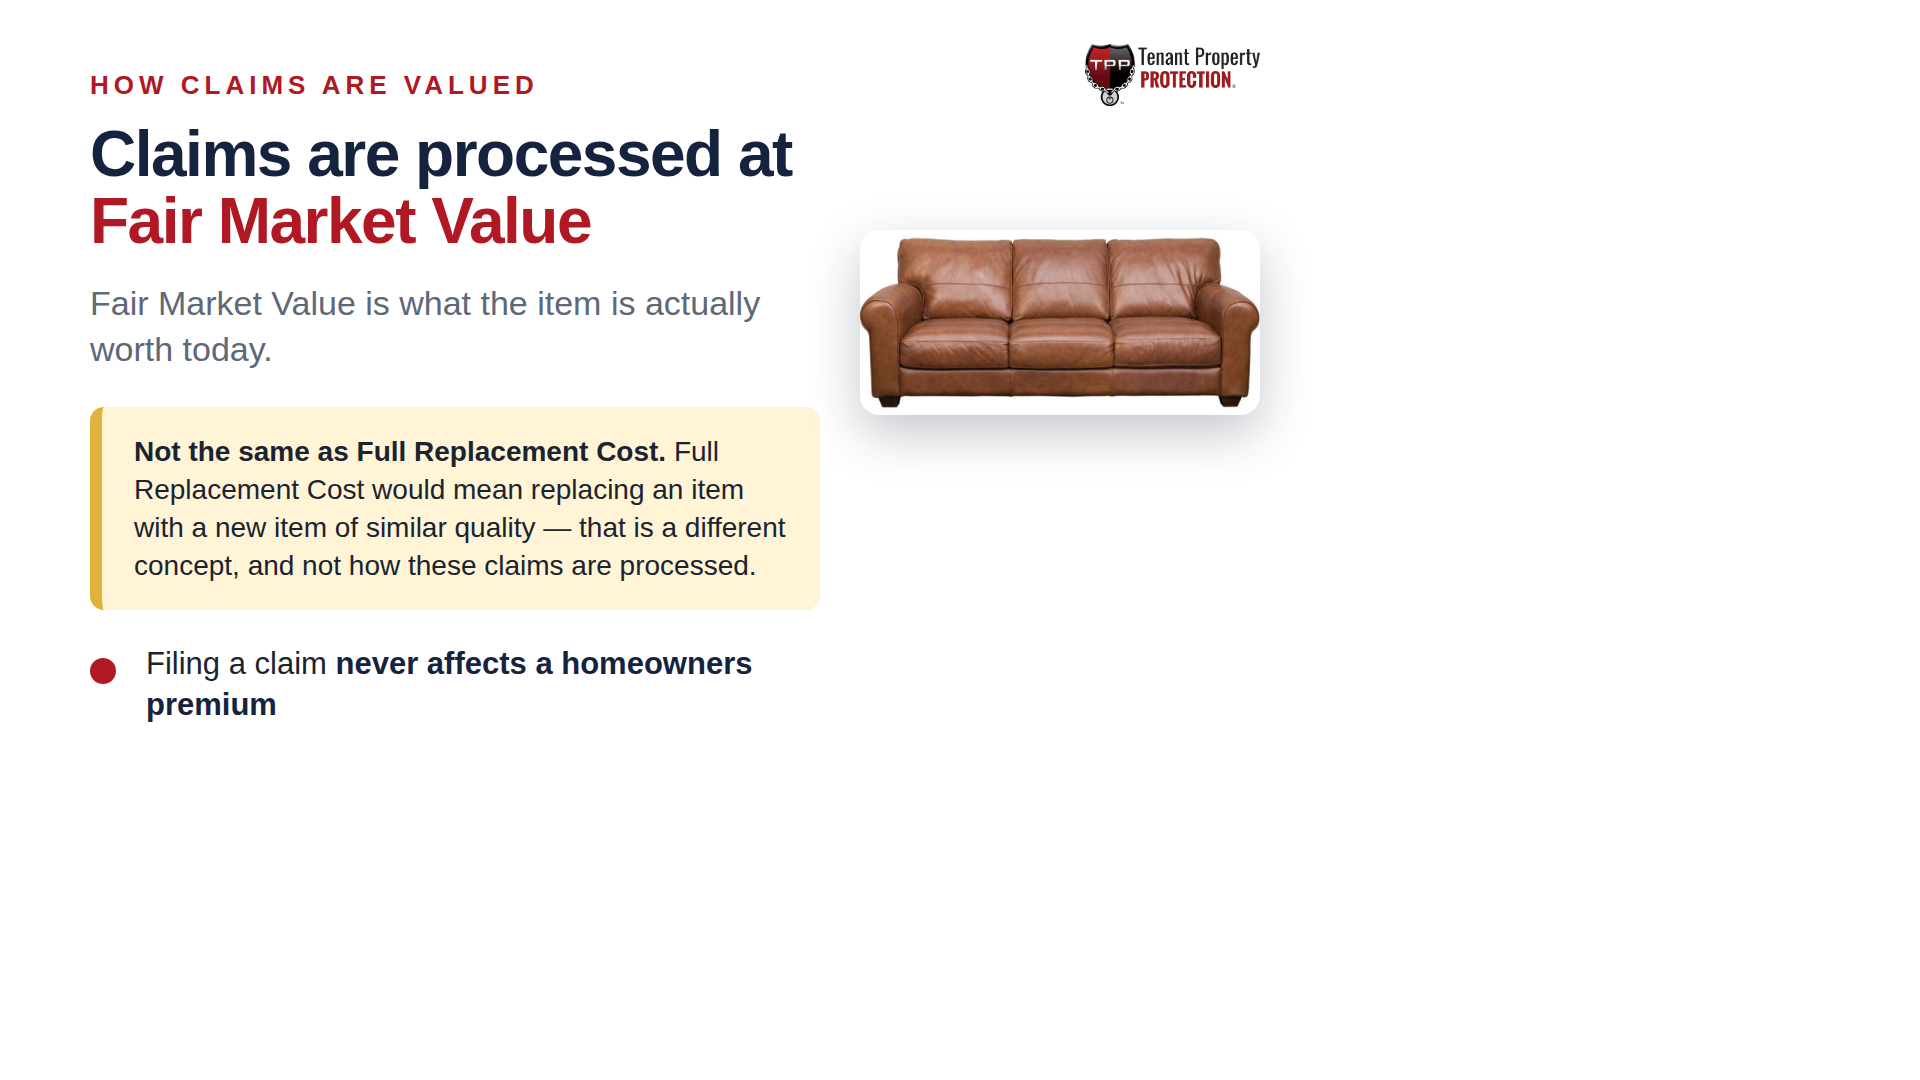
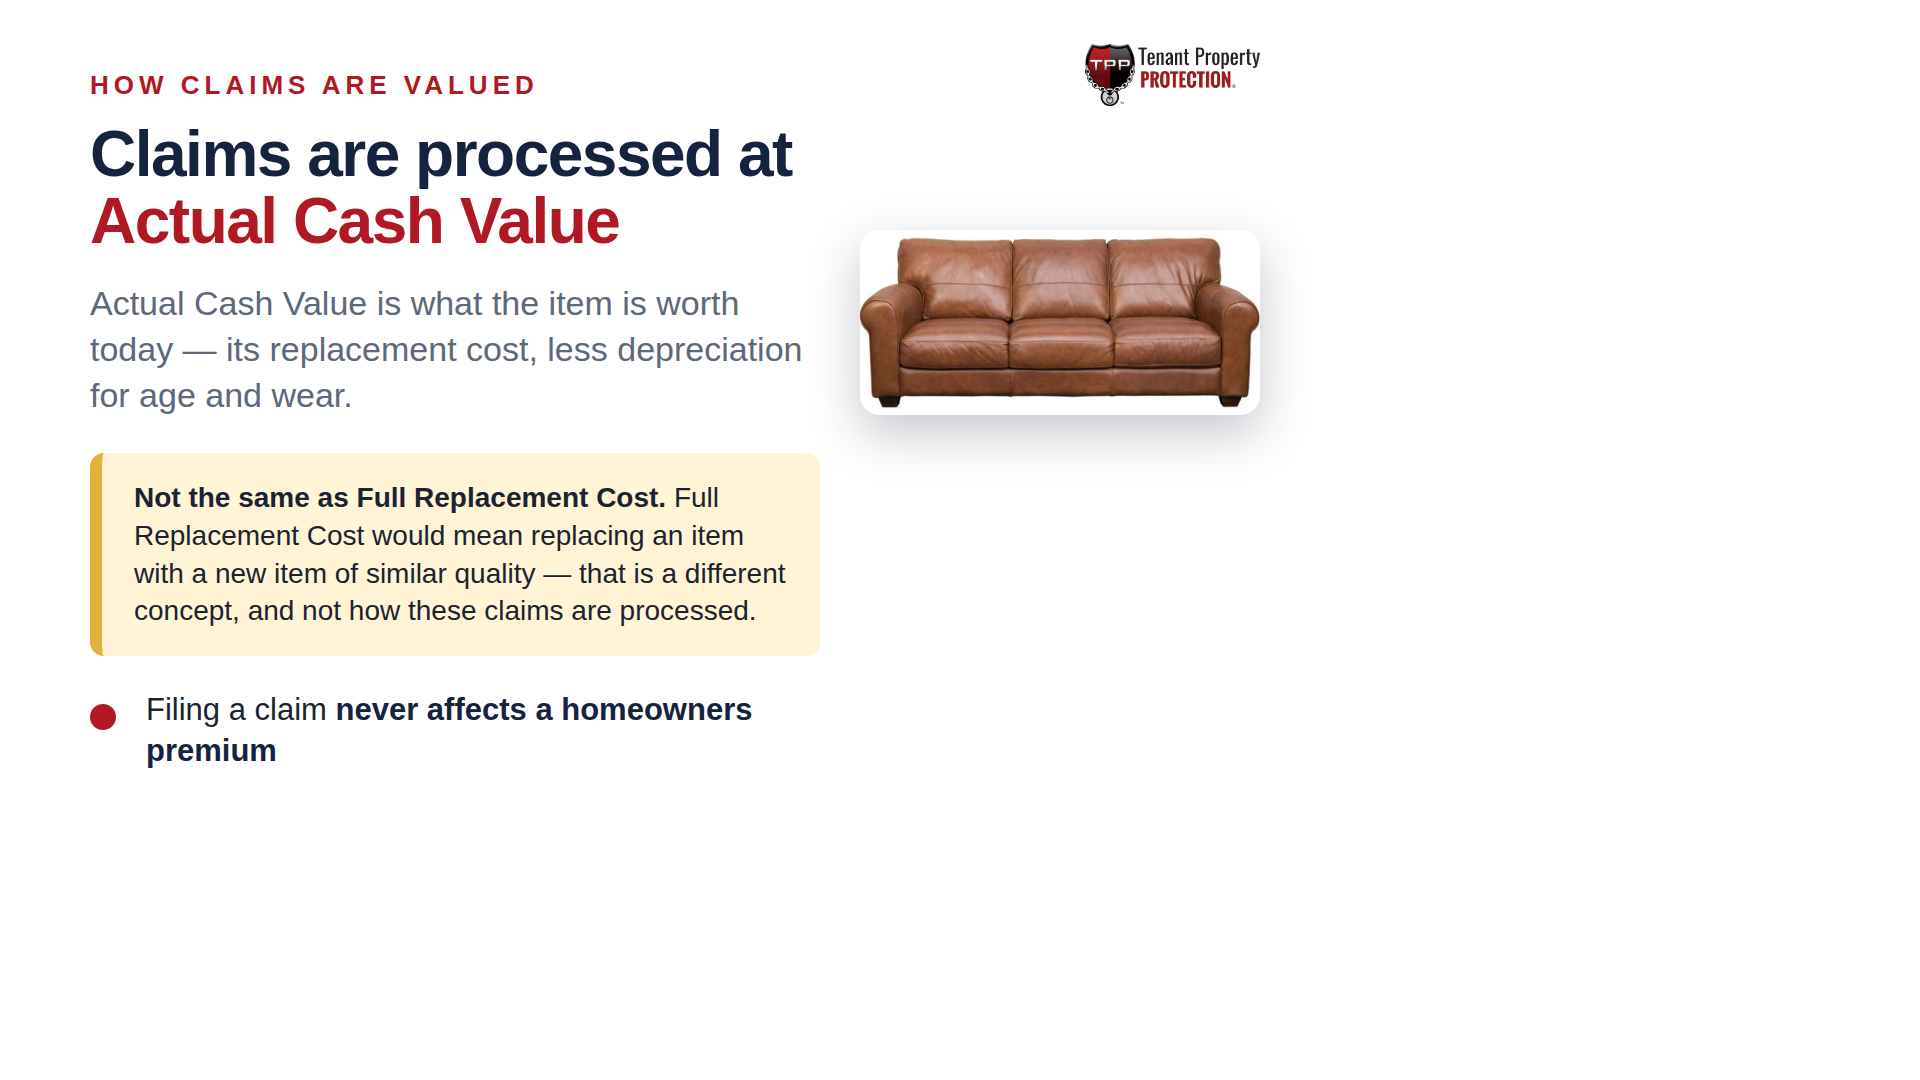
Claims are valued at actual cash value, not fair market value
Teon's correction. The slide and the narration both said fair market
value; the quiz now says actual cash value, which is the term that
carries the depreciation the plan actually applies, so the video follows
rather than the other way round.

The slide names it and spells it out — replacement cost less depreciation
for age and wear. The full-replacement-cost contrast stays, because that
is the distinction managers get wrong at the counter.

Claude-Session: https://claude.ai/code/session_01SVBeaJqqY1w1riJ9JWxQJ1

Changed region(s): [[0.0312, 0.275, 0.4375, 0.7028], [0.0312, 0.1833, 0.3438, 0.2444]]

diff --git a/tools/slides/gen_secure.py b/tools/slides/gen_secure.py
@@ -92,8 +92,8 @@ add('03-gap', f"""<img class='brand' src='{LOGO}'>
 add('04-fmv', f"""<img class='brand' src='{LOGO}'>
 <img class='photo' src='{COUCH}'>
 <div class='kick'>How claims are valued</div>
-<h1>Claims are processed at<br><em>Fair Market Value</em></h1>
-<div class='sub'>Fair Market Value is what the item is actually worth today.</div>
+<h1>Claims are processed at<br><em>Actual Cash Value</em></h1>
+<div class='sub'>Actual Cash Value is what the item is worth today &mdash; its replacement cost, less depreciation for age and wear.</div>
 <div class='warn'><b>Not the same as Full Replacement Cost.</b> Full Replacement Cost would mean replacing
 an item with a new item of similar quality &mdash; that is a different concept, and not how these claims are processed.</div>
 <ul style='margin-top:34px'><li>Filing a claim <b>never affects a homeowners premium</b></li></ul>""")
